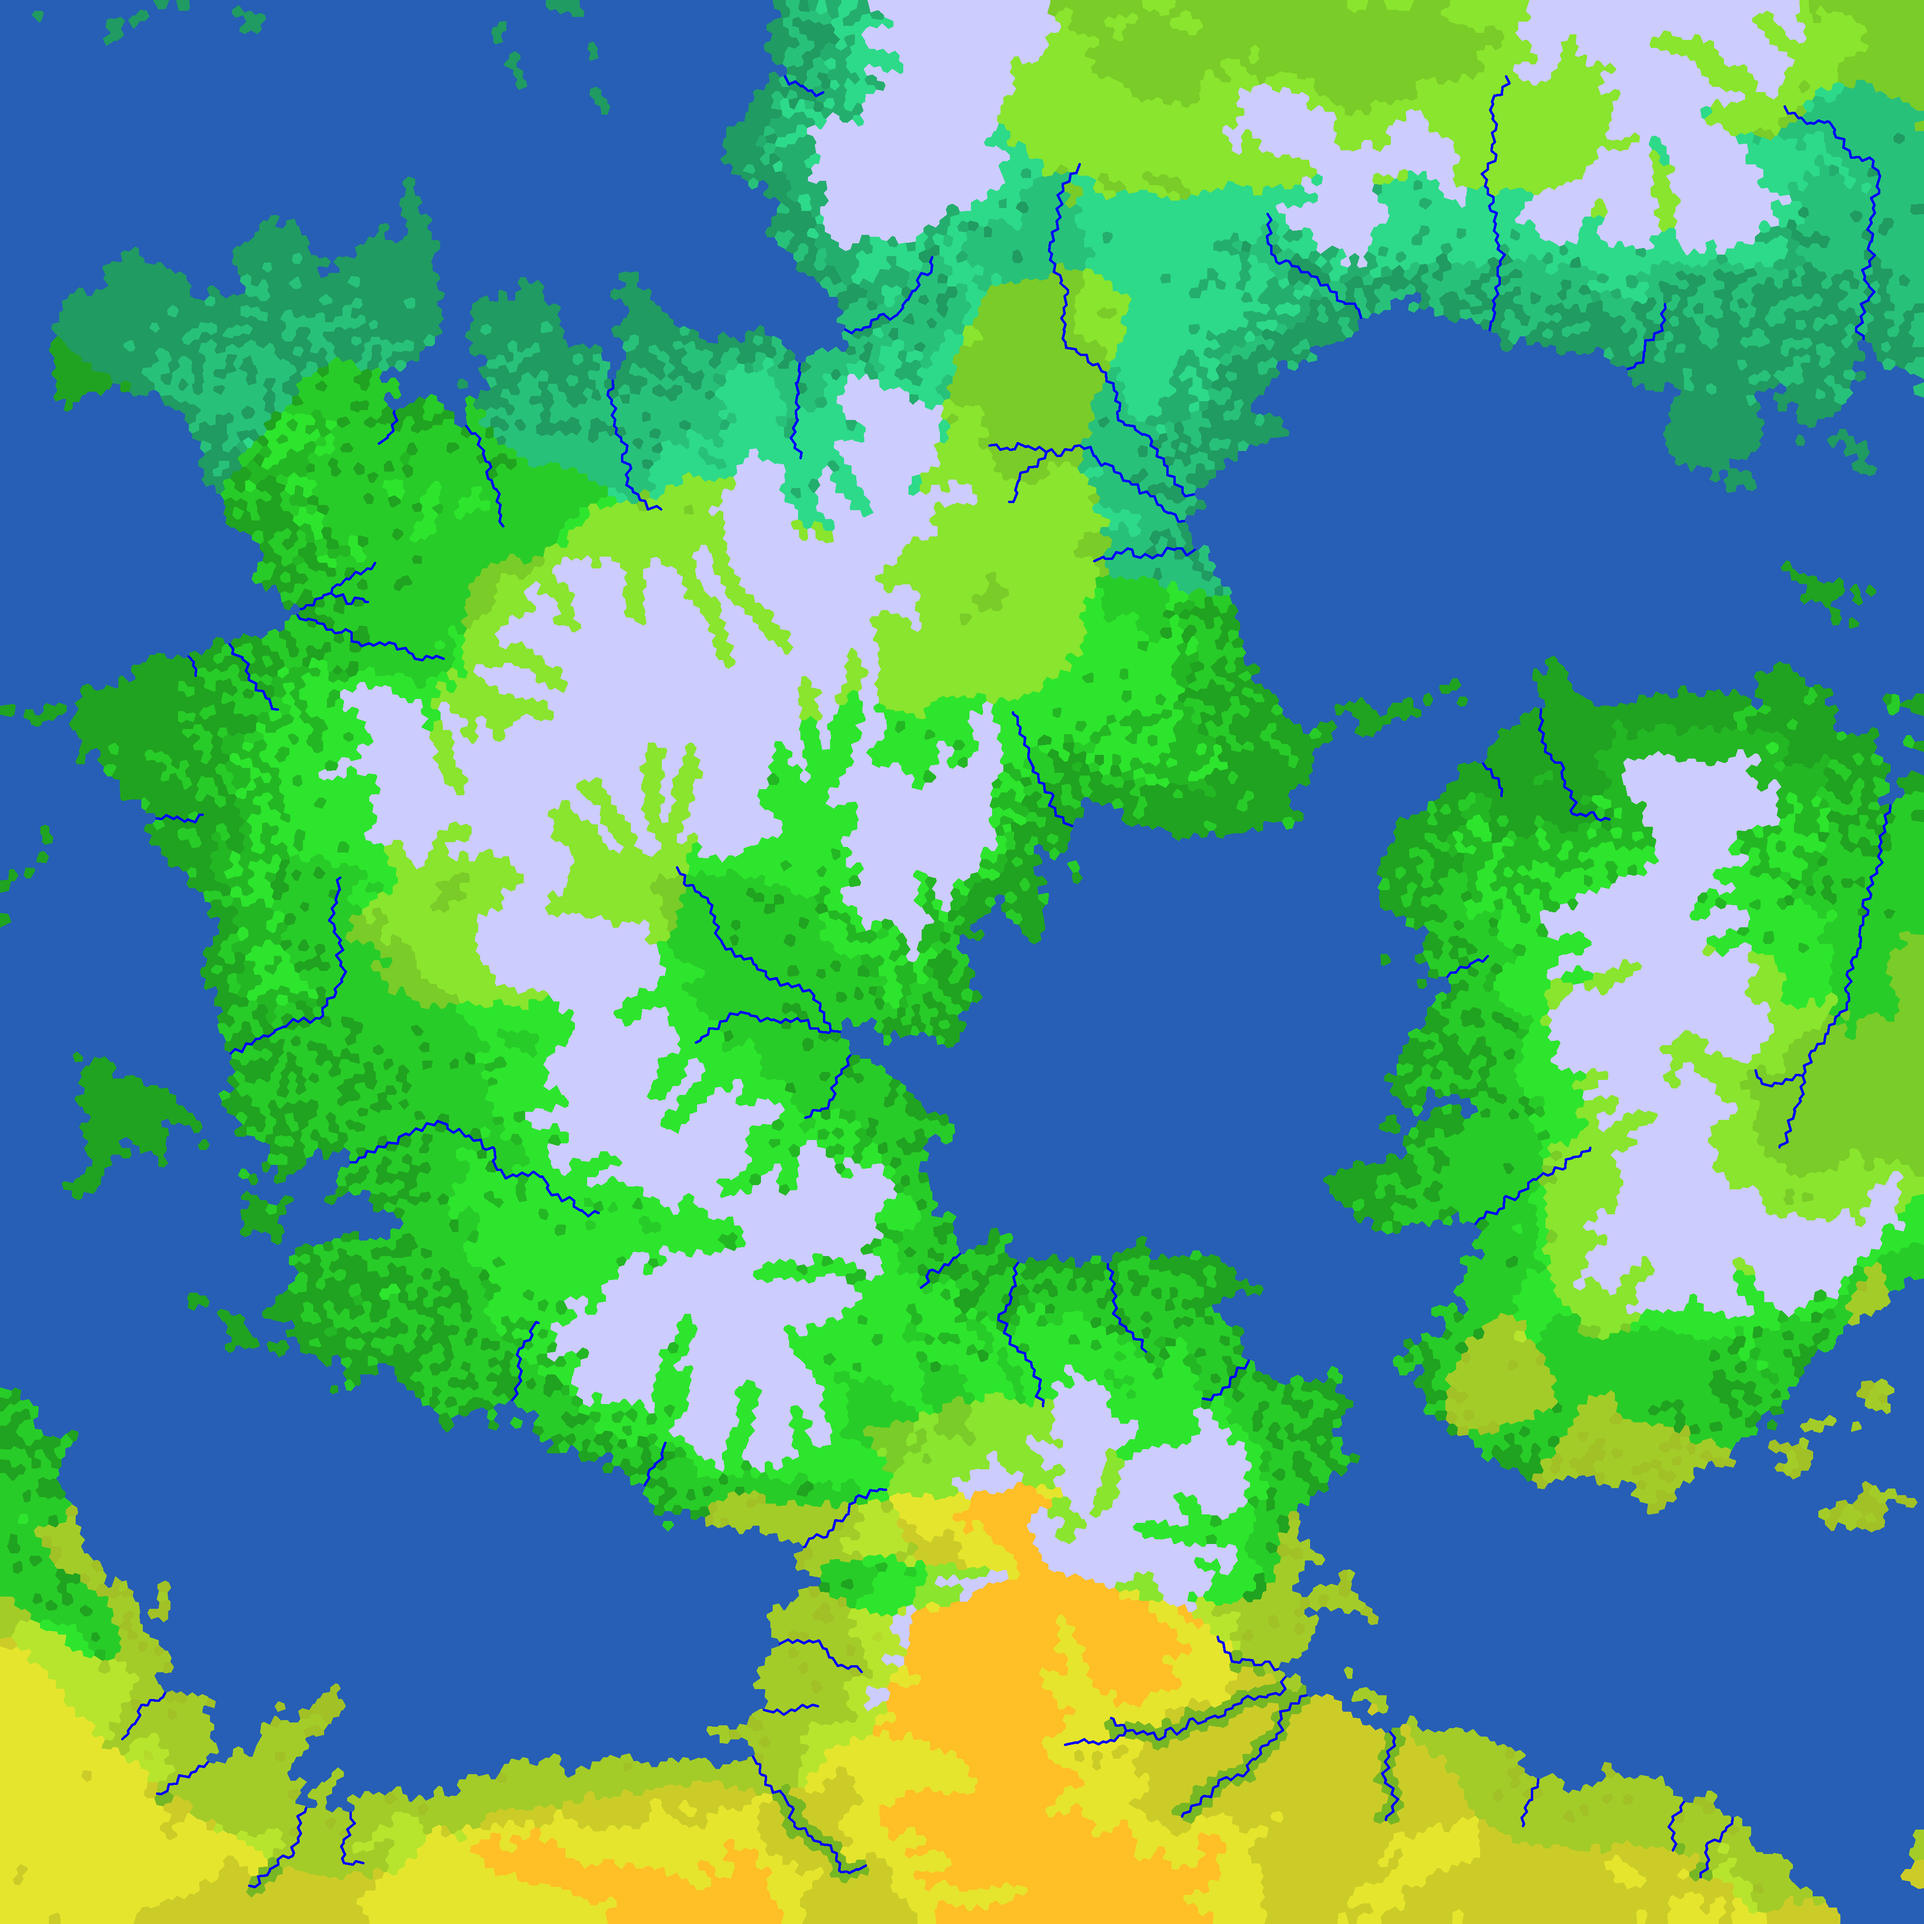
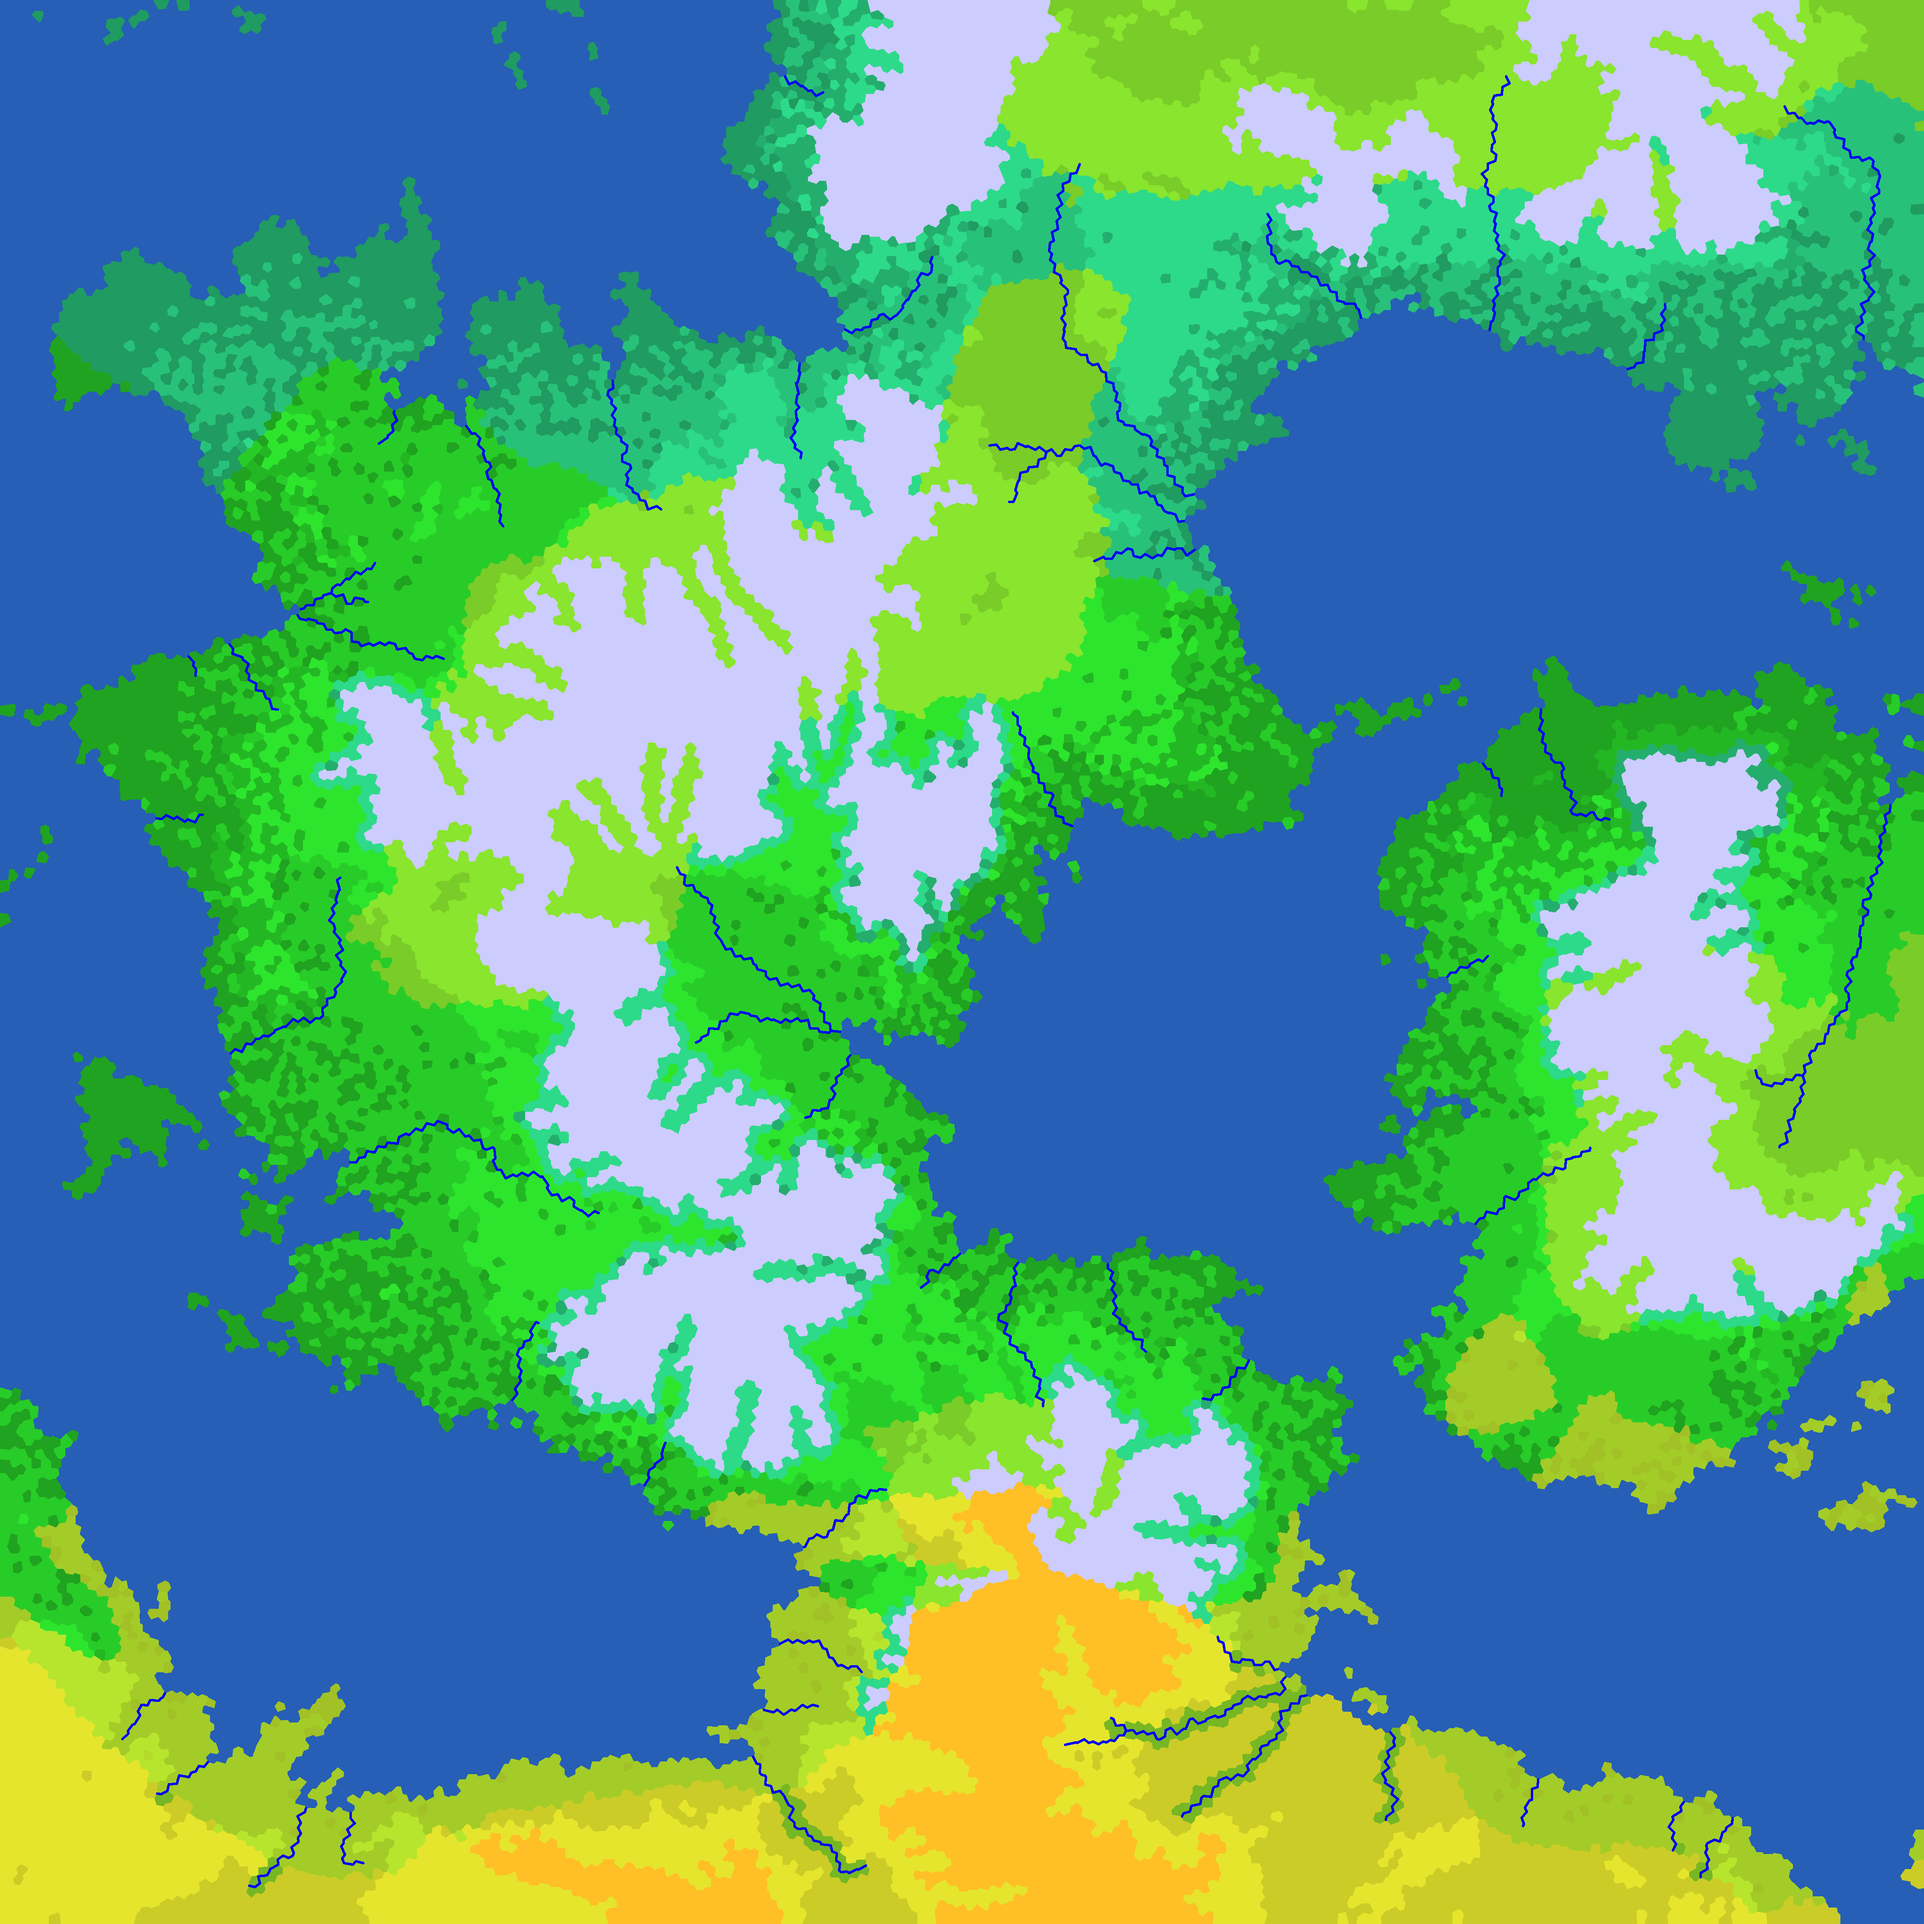
alpine biomes

diff --git a/src/worldmap.cpp b/src/worldmap.cpp
@@ -279,6 +279,19 @@ void Worldmap::gen_biomes(void)
 		if (t.biome == DESERT && t.relief == LOWLAND && t.river == true) {
 			t.biome = FLOODPLAIN;
 		}
+		// alpine biomes
+		if (t.relief == UPLAND) {
+			for (const auto &neighbor : t.neighbors) {
+				if (neighbor->relief == HIGHLAND) {
+					if (veg == DRY) {
+						t.biome = PINE_GRASSLAND;
+					} else if (veg == HUMID) {
+						t.biome = PINE_FOREST;
+					}
+					break;
+				}
+			}
+		}
 	}
 }
 
